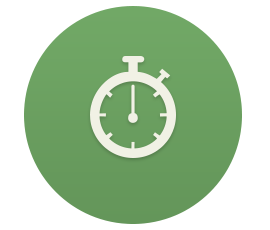
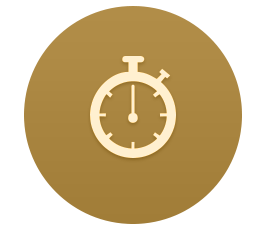
a

diff --git a/nutracarelife/src/sass/components/_motivational-stories.scss b/nutracarelife/src/sass/components/_motivational-stories.scss
@@ -3,7 +3,7 @@
   text-align: center;
 
   .motivational-stories__circle {
-    @extend %background-primary-color;
+    @extend %background-tertiary-color;
     display: inline-block;
     color: $lighter-color;
     border-radius: 50%;

diff --git a/index.md b/index.md
@@ -8,3 +8,5 @@ tagline: Supporting tagline
 [Prime time](/primeTime)
 
 [jinjiang](/jinjiang/carve/html/)
+
+[Nutracare](/nutracarelife/build/)
